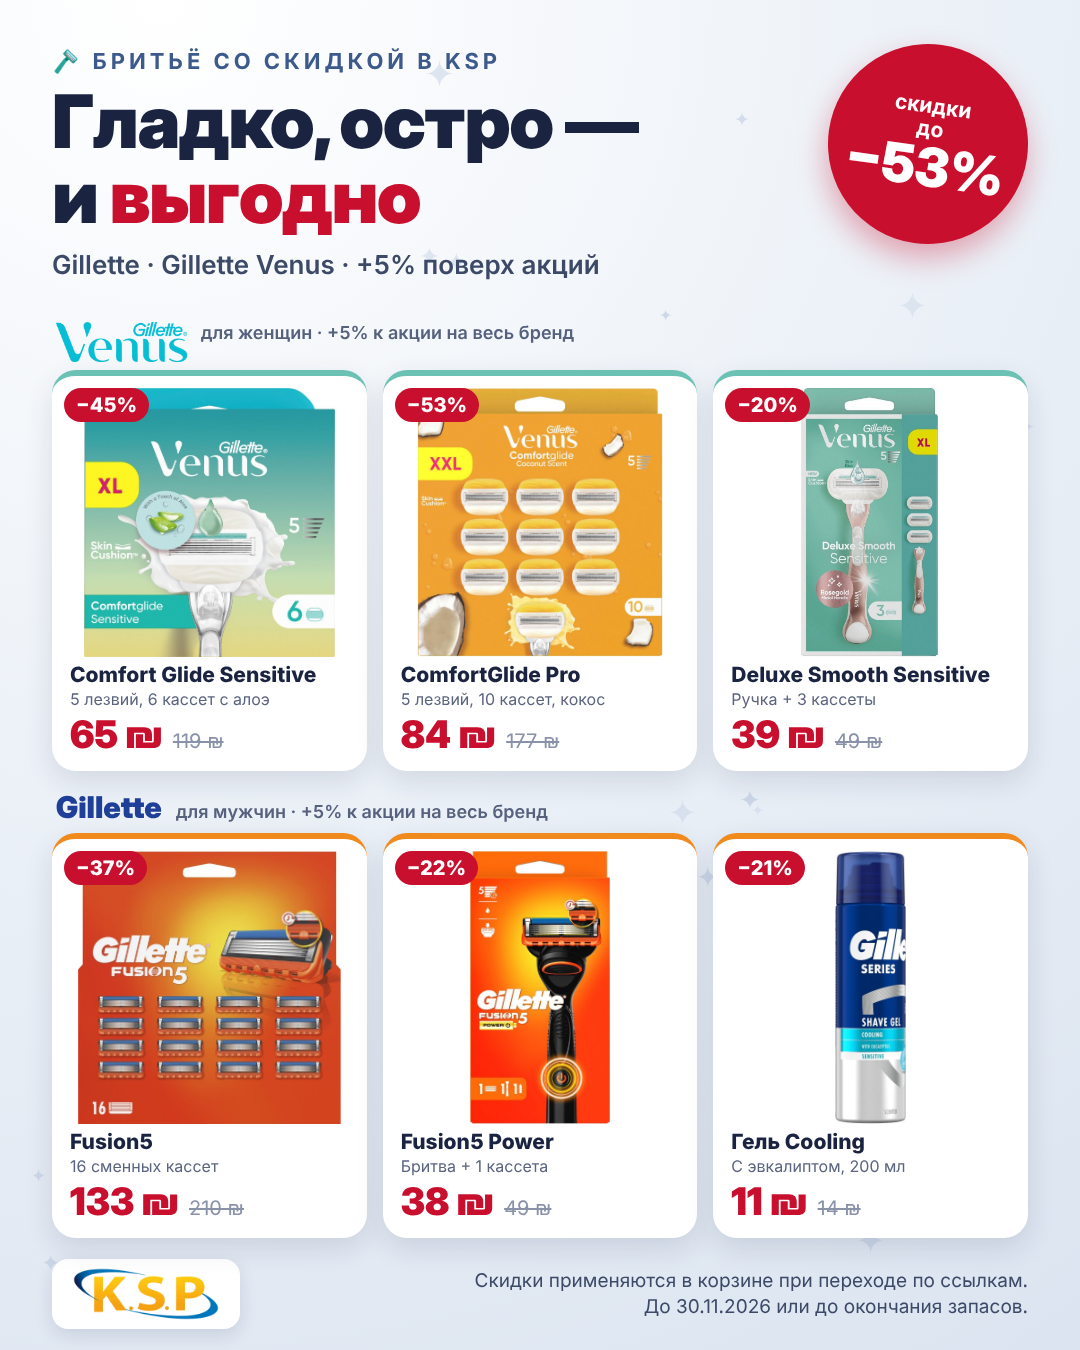
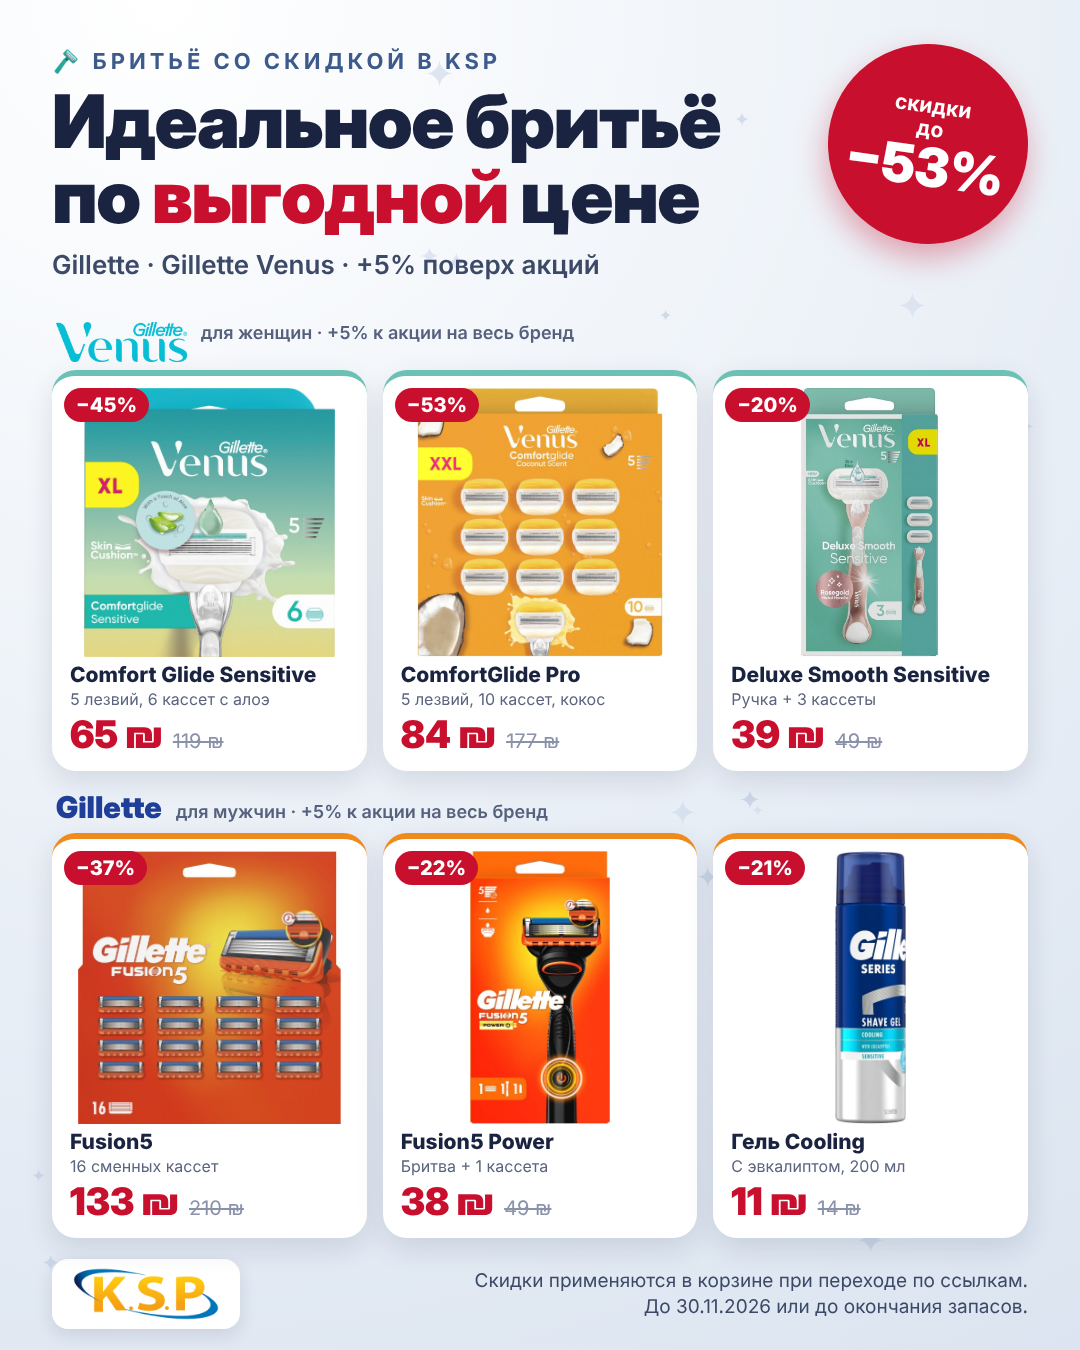
Simplify shaving promo headline
Claude-Session: https://claude.ai/code/session_01G3xLikWFack3bze3pWJxPE

Changed region(s): [[0.0611, 0.0622, 0.6722, 0.1867]]

diff --git a/ksp-shave-promo/render.js b/ksp-shave-promo/render.js
@@ -98,7 +98,7 @@ const section = (r) => `
 const html = `<!doctype html><html lang="ru"><head><meta charset="utf-8"><style>${css}</style></head>
 <body>${deco()}<div class="wrap">
   <div class="head"><div class="kicker">🪒 Бритьё со скидкой в KSP</div>
-  <h1>Гладко, остро —<br>и <em>выгодно</em></h1>
+  <h1>Идеальное бритьё<br>по <em>выгодной</em> цене</h1>
   <div class="brands">Gillette · Gillette Venus · +5% поверх акций</div></div>
   <div class="promo"><small>скидки<br>до</small><b>−${maxOff}%</b></div>
   <div class="rows">${ROWS.map(section).join('')}</div>
